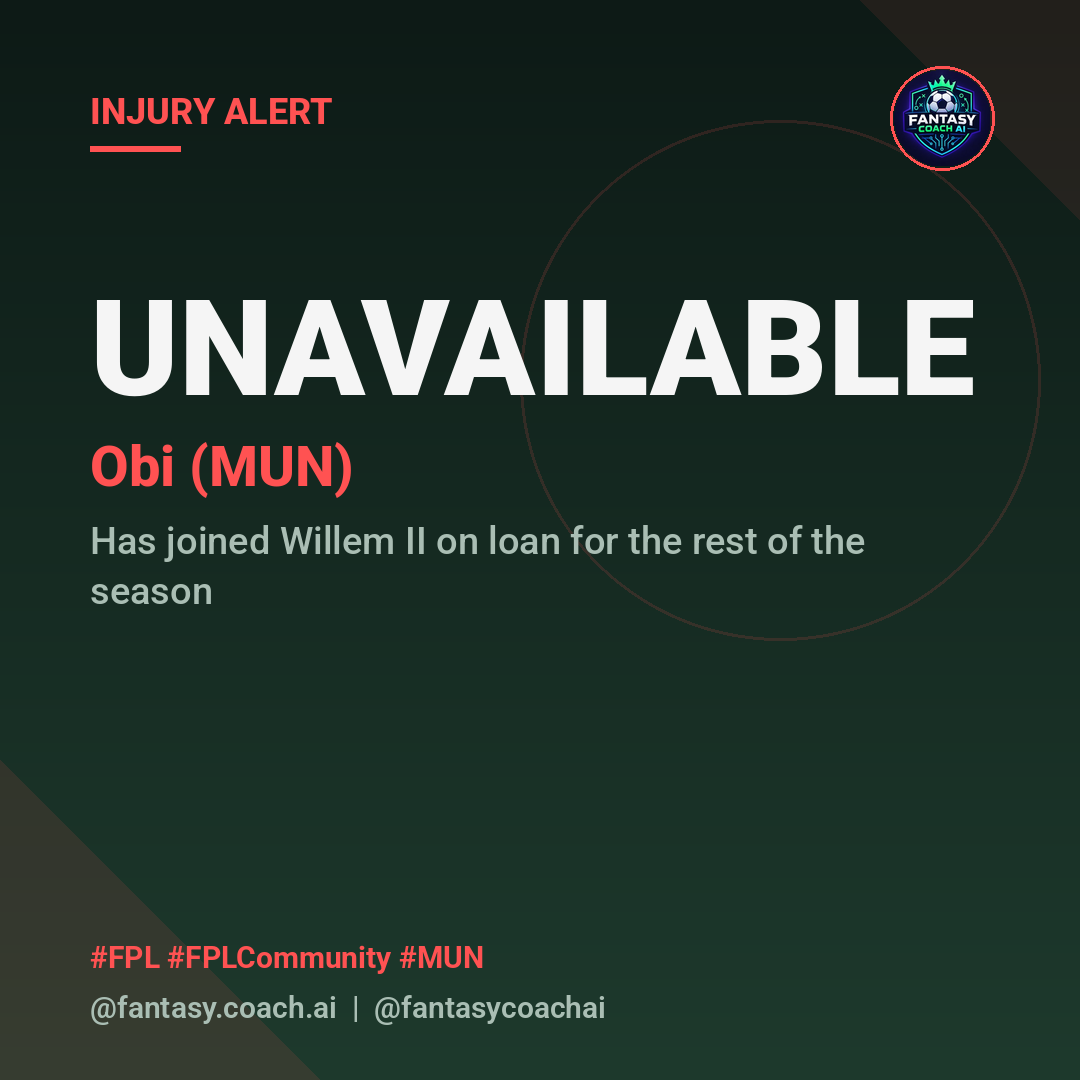
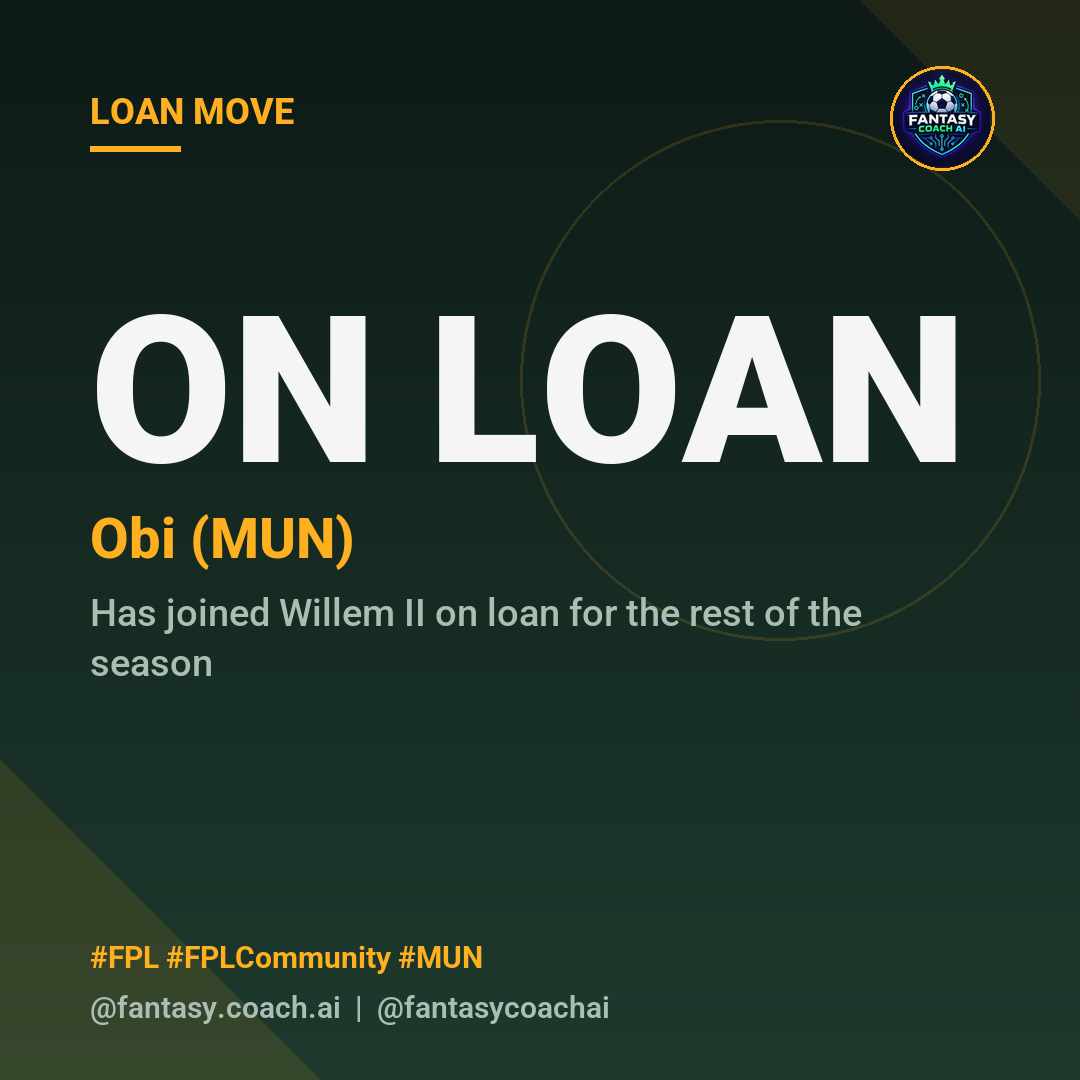
Stop mislabeling loans/transfers/suspensions as injury alerts
The 'news' field on a player covers far more than injuries -- loans,
permanent transfers, free-agent departures, suspensions -- but every
status_change story was unconditionally framed as "INJURY ALERT" (e.g. a
loan move rendered as a red injury card). Added status/text-based
classification (injury/suspension/loan/transfer/departure/availability)
with its own eyebrow, color, and caption hooks per category. Also fixed
and re-posted the one already-live example of this (Obi's loan move).

Claude-Session: https://claude.ai/code/session_012nwuEcFEkH9uZL5Gd7ZjvW

diff --git a/scripts/generate_content.py b/scripts/generate_content.py
@@ -135,6 +135,16 @@ def _hero_card(eyebrow, hero, headline, subtext=None, hero_color=None, hashtags=
 
 CARD_HASHTAGS = "#FPL #FPLCommunity"
 
+# category -> (eyebrow, hero text or None to fall back to the status label, color)
+STATUS_CARD_META = {
+    "injury": ("INJURY ALERT", None, ALERT),
+    "suspension": ("SUSPENDED", "SUSPENDED", ALERT),
+    "loan": ("LOAN MOVE", "ON LOAN", WARN),
+    "transfer": ("TRANSFER NEWS", "TRANSFERRED", WARN),
+    "departure": ("SQUAD NEWS", "DEPARTED", WARN),
+    "availability": ("AVAILABILITY UPDATE", None, WARN),
+}
+
 
 def render_card(story, out_path):
     t = story["type"]
@@ -149,11 +159,11 @@ def render_card(story, out_path):
         hero_color = ACCENT if rising else ALERT
         hashtags = f"{CARD_HASHTAGS} #{story['team']}"
     elif t == "status_change":
-        eyebrow = "INJURY ALERT"
-        hero = story["status"].upper()
+        category = story.get("category", "availability")
+        eyebrow, hero, hero_color = STATUS_CARD_META.get(category, STATUS_CARD_META["availability"])
+        hero = hero or story["status"].upper()
         headline = f"{story['player']} ({story['team']})"
         subtext = story["news"]
-        hero_color = ALERT
         hashtags = f"{CARD_HASHTAGS} #{story['team']}"
     elif t == "deadline_reminder":
         eyebrow = "DEADLINE ALERT"
@@ -203,6 +213,38 @@ STATUS_HOOKS = [
     "How are you covering this one?",
     "Risk it, or play it safe this week?",
 ]
+LOAN_HOOKS = [
+    "Worth keeping an eye on, or off your radar now?",
+    "Does this change how you're planning around him?",
+    "Still fantasy relevant from his new club, or done for now?",
+    "Surprised by this one, or saw it coming?",
+]
+TRANSFER_HOOKS = [
+    "Did you see this one coming?",
+    "Does this shake up your squad plans?",
+    "Big move -- good business for the club, or a loss?",
+    "How does this change the pecking order at his old club?",
+]
+DEPARTURE_HOOKS = [
+    "End of an era, or overdue?",
+    "Does this open a spot worth targeting?",
+    "Will he be missed in FPL terms?",
+]
+SUSPENSION_HOOKS = [
+    "Who's covering for him while he's out?",
+    "Does this change your captaincy plans?",
+    "Costly ban, or no big loss for his side?",
+]
+
+STATUS_CATEGORY_META = {
+    # category -> (emoji, label prefix, hook list)
+    "injury": ("\U0001F6A8", "INJURY ALERT", STATUS_HOOKS),
+    "suspension": ("\U0001F7E5", "SUSPENDED", SUSPENSION_HOOKS),
+    "loan": ("\U0001F504", "LOAN MOVE", LOAN_HOOKS),
+    "transfer": ("\U0001F504", "TRANSFER NEWS", TRANSFER_HOOKS),
+    "departure": ("\U0001F44B", "SQUAD NEWS", DEPARTURE_HOOKS),
+    "availability": ("ℹ", "AVAILABILITY UPDATE", STATUS_HOOKS),
+}
 DEADLINE_HOOKS = [
     "Transfers, captain, chip calls -- lock it in NOW.",
     "Last chance to make your move.",
@@ -236,9 +278,11 @@ def build_caption(story):
             f"{hook} {tags} #{story['team']}"
         )
     if t == "status_change":
-        hook = random.choice(STATUS_HOOKS)
+        category = story.get("category", "availability")
+        emoji, label, hooks = STATUS_CATEGORY_META.get(category, STATUS_CATEGORY_META["availability"])
+        hook = random.choice(hooks)
         return (
-            f"\U0001F6A8 INJURY ALERT: {story['player']} ({story['team']}) is {story['status']}.\n"
+            f"{emoji} {label}: {story['player']} ({story['team']}) is {story['status']}.\n"
             f"\"{story['news']}\"\n\n"
             f"{hook} {tags}"
         )

diff --git a/scripts/fetch_news.py b/scripts/fetch_news.py
@@ -20,6 +20,25 @@ STATUS_LABELS = {
 }
 
 
+def _classify_status(status_code, news_text):
+    """The 'news' field covers far more than injuries -- loans, permanent
+    transfers, departures, suspensions -- so pick an honest category instead
+    of always framing it as an injury alert."""
+    text = news_text.lower()
+
+    if status_code == "s":
+        return "suspension"
+    if status_code in ("i", "d"):
+        return "injury"
+    if "loan" in text:
+        return "loan"
+    if "joined" in text or "permanently" in text or "transfer" in text:
+        return "transfer"
+    if "departed" in text or "free agent" in text or "released" in text:
+        return "departure"
+    return "availability"
+
+
 def load_state(path=STATE_PATH):
     with open(path, "r", encoding="utf-8") as f:
         return json.load(f)
@@ -81,6 +100,7 @@ def diff_snapshots(old, new):
                 "team": cur["team"],
                 "status": STATUS_LABELS.get(cur["status"], cur["status"]),
                 "news": cur["news"],
+                "category": _classify_status(cur["status"], cur["news"]),
             })
 
     return stories
